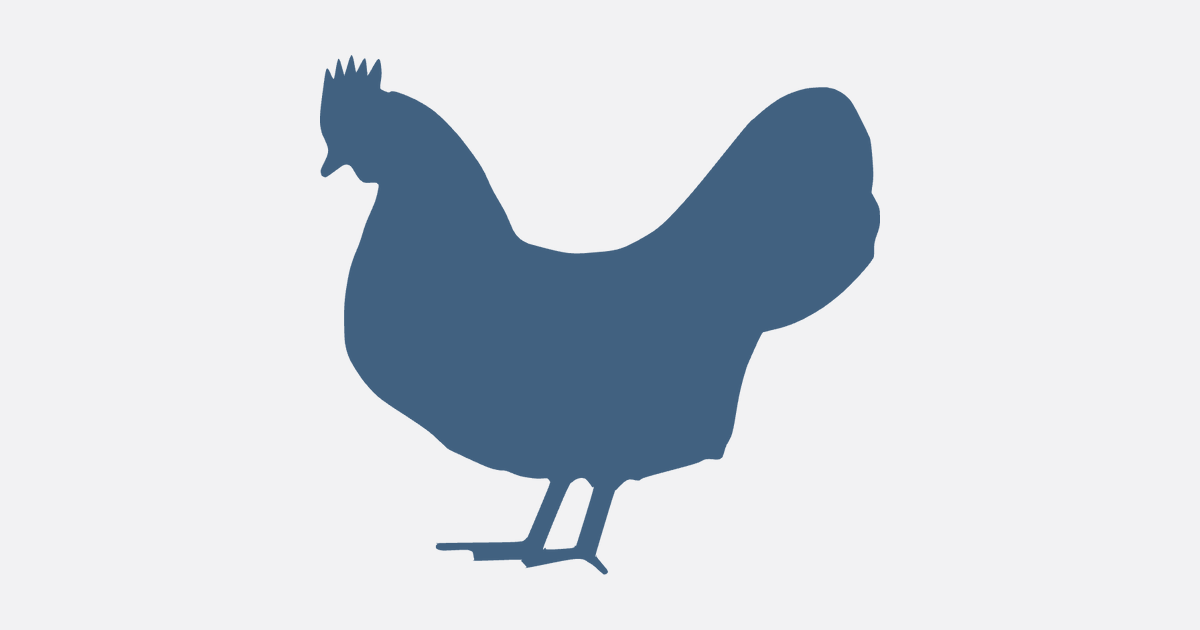
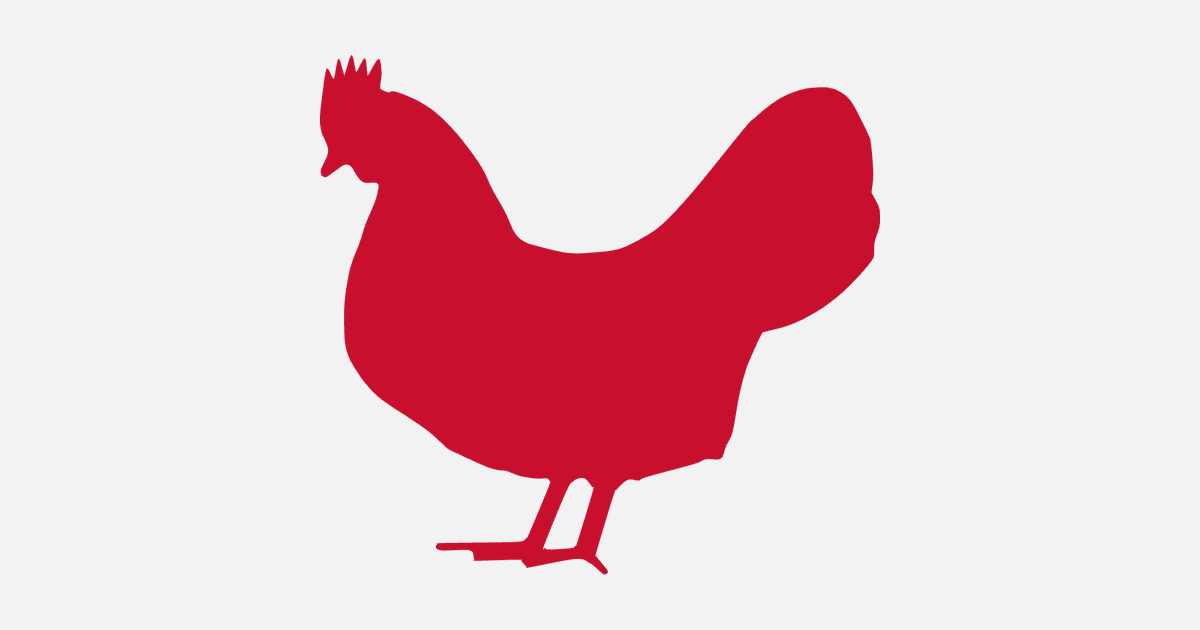
Switch to a red, grey, white and black palette
- Neutral greys with a red accent (#c8102e light, #ff6f73 dark) and a
  charcoal dark-mode background (#292929).
- Recolor the 4a logo, favicons, touch icon and OG image from slate blue
  to red. The reversed logo has a red BANTAM and a white LABS.
- Product links use their own logo colors (ParlayCards blue, Couplr
  green/pink).
- Schedule a meeting button is black/white and turns red on hover.

Changed region(s): [[0.2467, 0.0905, 0.74, 0.9048]]

diff --git a/index.html b/index.html
@@ -7,8 +7,8 @@
   <meta name="description" content="Bantam Labs is an independent studio that designs, builds, and sells its own software products.">
   <link rel="canonical" href="https://bantamlabs.com/">
   <meta name="color-scheme" content="light dark">
-  <meta name="theme-color" content="#f2f2f3" media="(prefers-color-scheme: light)">
-  <meta name="theme-color" content="#1d1f20" media="(prefers-color-scheme: dark)">
+  <meta name="theme-color" content="#f2f2f2" media="(prefers-color-scheme: light)">
+  <meta name="theme-color" content="#292929" media="(prefers-color-scheme: dark)">
 
   <link rel="icon" href="/favicon.ico" sizes="any">
   <link rel="icon" href="/assets/img/favicon-32.png" type="image/png" sizes="32x32">
@@ -75,7 +75,7 @@
             <p>One sentence about what it does.</p>
           </li>
         -->
-        <li class="card card-has-logo">
+        <li class="card card-has-logo card-parlaycards">
           <picture>
             <source media="(prefers-color-scheme: dark)" srcset="/assets/img/parlaycards-mark-reversed.svg">
             <img class="card-logo" src="/assets/img/parlaycards-mark.svg" width="64" height="64" alt="">
@@ -83,7 +83,7 @@
           <h3><a href="https://parlaycards.ai">ParlayCards.ai</a></h3>
           <p>Snap a photo of your parlay card and track its results as the games play out.</p>
         </li>
-        <li class="card card-has-logo">
+        <li class="card card-has-logo card-couplr">
           <picture>
             <source media="(prefers-color-scheme: dark)" srcset="/assets/img/couplr-mark-reversed.svg">
             <img class="card-logo" src="/assets/img/couplr-mark.svg" width="64" height="64" alt="">

diff --git a/assets/css/site.css b/assets/css/site.css
@@ -11,12 +11,12 @@
 :root {
   color-scheme: light dark;
 
-  --bg: #f2f2f3;
+  --bg: #f2f2f2;
   --surface: #ffffff;
-  --text: #1d1f20;
-  --muted: #4f5459;
-  --accent: #416180;
-  --border: #c9cdd1;
+  --text: #111111;
+  --muted: #555555;
+  --accent: #c8102e;
+  --border: #cccccc;
 
   --font-display: "Bebas Neue", "Arial Narrow", Impact, sans-serif;
   --font-body: system-ui, -apple-system, "Segoe UI", Roboto, "Helvetica Neue", Arial, sans-serif;
@@ -27,12 +27,12 @@
 
 @media (prefers-color-scheme: dark) {
   :root {
-    --bg: #1d1f20;
-    --surface: #26292b;
-    --text: #f2f2f3;
-    --muted: #a9aeb3;
-    --accent: #b5d9fd;
-    --border: #3a3e41;
+    --bg: #292929;
+    --surface: #333333;
+    --text: #f2f2f2;
+    --muted: #a6a6a6;
+    --accent: #ff6f73;
+    --border: #484848;
   }
 }
 
@@ -184,6 +184,25 @@ a:hover {
 
 .card p {
   color: var(--muted);
+}
+
+/* Product links take the color of their product's logo. */
+.card-parlaycards {
+  --accent: #5980a6;
+}
+
+.card-couplr {
+  --accent: #134a2b;
+}
+
+@media (prefers-color-scheme: dark) {
+  .card-parlaycards {
+    --accent: #94bce3;
+  }
+
+  .card-couplr {
+    --accent: #e883b9;
+  }
 }
 
 .card-placeholder {
@@ -358,16 +377,17 @@ a:hover {
   gap: 0.625rem;
   margin-top: 1rem;
   padding: 0.75rem 1.25rem;
-  background: var(--accent);
+  background: var(--text);
   color: var(--bg);
-  border: 1px solid var(--accent);
+  border: 1px solid var(--text);
   border-radius: 0.5rem;
   font-weight: 600;
   text-decoration: none;
 }
 
 .schedule:hover {
-  filter: brightness(1.1);
+  background: var(--accent);
+  border-color: var(--accent);
 }
 
 .schedule svg {

diff --git a/founder/index.html b/founder/index.html
@@ -7,8 +7,8 @@
   <meta name="description" content="Brent Theisen is the founder of Bantam Labs, an independent software studio in Madison, Wisconsin.">
   <link rel="canonical" href="https://bantamlabs.com/founder/">
   <meta name="color-scheme" content="light dark">
-  <meta name="theme-color" content="#f2f2f3" media="(prefers-color-scheme: light)">
-  <meta name="theme-color" content="#1d1f20" media="(prefers-color-scheme: dark)">
+  <meta name="theme-color" content="#f2f2f2" media="(prefers-color-scheme: light)">
+  <meta name="theme-color" content="#292929" media="(prefers-color-scheme: dark)">
 
   <link rel="icon" href="/favicon.ico" sizes="any">
   <link rel="icon" href="/assets/img/favicon-32.png" type="image/png" sizes="32x32">

diff --git a/404.html b/404.html
@@ -7,8 +7,8 @@
   <meta name="description" content="The page you were looking for could not be found.">
   <meta name="robots" content="noindex">
   <meta name="color-scheme" content="light dark">
-  <meta name="theme-color" content="#f2f2f3" media="(prefers-color-scheme: light)">
-  <meta name="theme-color" content="#1d1f20" media="(prefers-color-scheme: dark)">
+  <meta name="theme-color" content="#f2f2f2" media="(prefers-color-scheme: light)">
+  <meta name="theme-color" content="#292929" media="(prefers-color-scheme: dark)">
 
   <link rel="icon" href="/favicon.ico" sizes="any">
   <link rel="icon" href="/assets/img/favicon-32.png" type="image/png" sizes="32x32">
